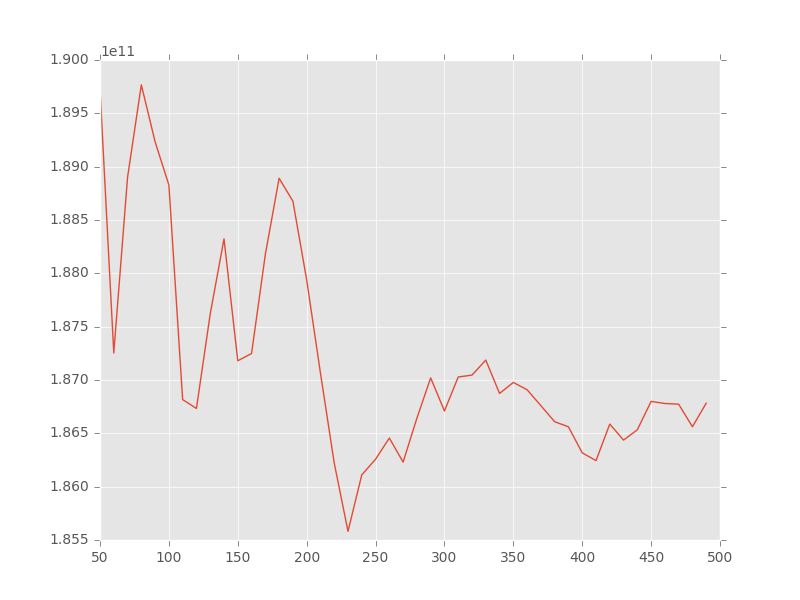
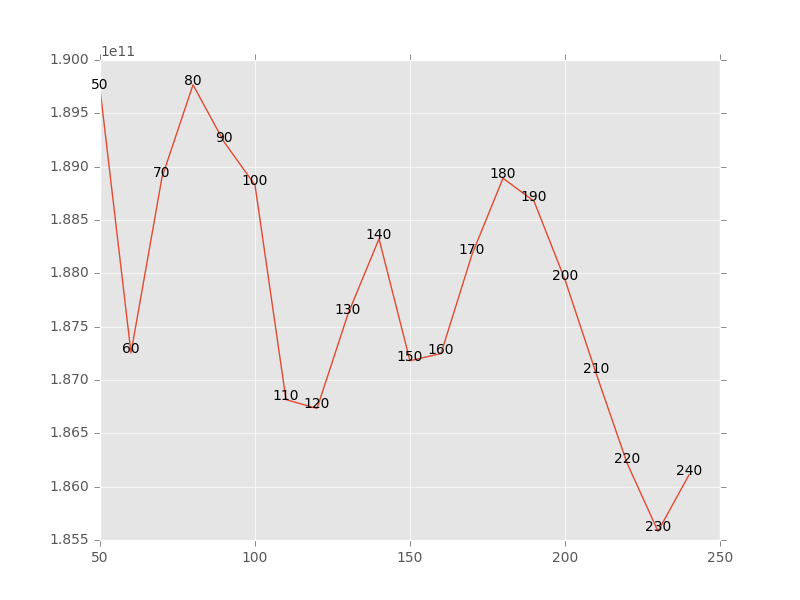
update

diff --git a/viewData.py b/viewData.py
@@ -128,8 +128,9 @@ def regression(df):
 	#print clf.intercept_,clf.coef_
 	print clf.named_steps['linear'].coef_
 	'''
+	'''
 	#找随机森林参数 50，80
-	nTreeList = xrange(5,500,10)
+	nTreeList = xrange(50,250,10)
 	mse = []
 	for i in nTreeList:
 		depth = None
@@ -146,11 +147,10 @@ def regression(df):
 		t = plt.text(x, y, str(x) , fontproperties=font, **alignment)
 	plt.show()
 	'''
-	print X.columns[1]
 	#线性回归+贝叶斯+随机森林
 	#clf = linear_model.LinearRegression()
 	#clf == linear_model.BayesianRidge()
-	clf = ensemble.RandomForestRegressor(n_estimators=80,max_depth=None,max_features=4,oob_score=False,random_state=531)
+	clf = ensemble.RandomForestRegressor(n_estimators=230,max_depth=None,max_features=4,oob_score=False,random_state=531)
 	clf.fit(X,y)
 	yhat = clf.predict(X = df[regex])
 	#print clf.intercept_,clf.coef_
@@ -165,7 +165,6 @@ def regression(df):
 	plt.barh(barpos,feature[sorted_idx],align='center')
 	plt.yticks(barpos,X.columns[sorted_idx])
 	plt.show()
-	'''
 	pass
 
 def cluster(df):

diff --git a/readme.md b/readme.md
@@ -9,8 +9,7 @@
 
 ## NPP：
  ![NPP](http://ww3.sinaimg.cn/large/006y8lVajw1fbkazm2x9wj31ik0yck7x.jpg)
- 无空值，中值500左右，基本符合正态分布，0值可能影响训练数据的准确性。
- 和TE的关系：
+ 无空值，中值500左右，基本符合正态分布，0值可能影响训练数据的准确性。和TE的关系：
  ![NPP&TE](https://raw.githubusercontent.com/Moirai7/environment/master/pic/figure_1.png)
 
 ## Light：
@@ -67,8 +66,10 @@
 # 随机森林
  决策树数目和其对应的RMSE变化曲线：
  ![](https://raw.githubusercontent.com/Moirai7/environment/master/pic/figure_14.png)
- 使用最佳参数得到的结果：
+ 每个参数的重要性：
  ![](https://raw.githubusercontent.com/Moirai7/environment/master/pic/figure_15.png)
+ 使用最佳参数得到的结果：
+ ![](https://raw.githubusercontent.com/Moirai7/environment/master/pic/figure_16.png)
 
 #其他
  取log，效果很差
